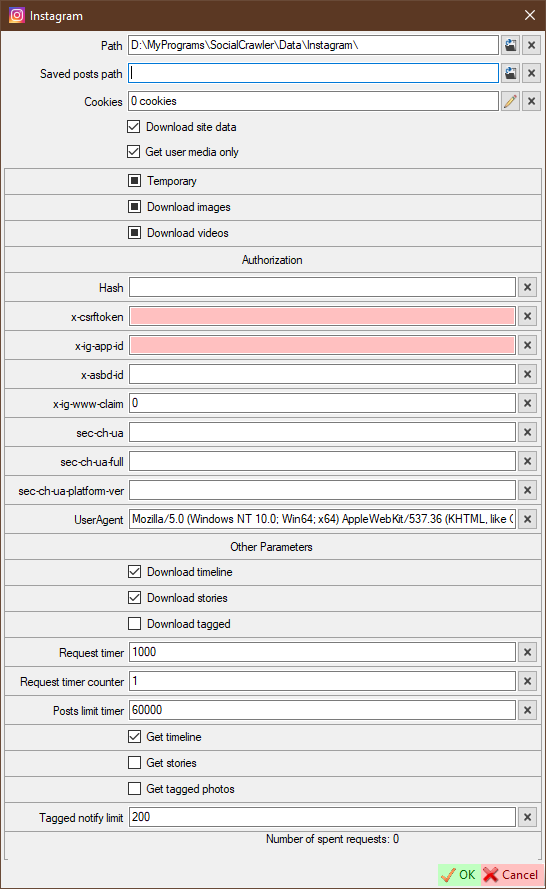
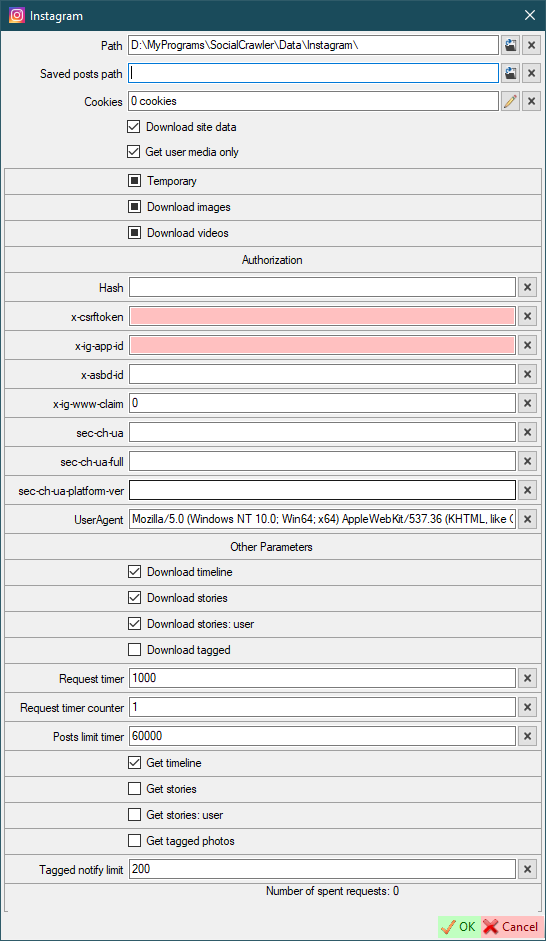
2023.9.20.0

Changed region(s): [[0.0, 0.0, 1.0, 1.0]]

diff --git a/Changelog.md b/Changelog.md
@@ -1,3 +1,19 @@
+# 2023.9.20.0
+
+*2023-09-20*
+
+- Added
+  - **Instagram: user active (non-pinned) stories (Issue #17)**
+  - Reddit: reduce the number of token updates (refresh the token if there are Reddit users in the download queue)
+  - YouTube (standalone app): priority download protocol *(`Settings` - `Defaults` - `Protocol`)* (you can now select the default protocol you want to download media on: `Any`, `https`, `m3u8`))
+  - Automation: ability to change schedulers (`Download` - `Automation` - `Script icon`)
+  - Collections: update colors for the added user
+- Fixed
+  - YouTube: can't detect `shorts` links
+  - Incorrect MD5 validation initial value
+  - Instagram: handle error 500
+  - Collections: update labels only for the added user
+
 # 2023.8.27.0
 
 *2023-08-27*

diff --git a/README.md b/README.md
@@ -189,6 +189,10 @@ F5-->[*]
 
 # Contact me
 
+Discord server: https://discord.gg/uFNUXvFFmg
+
+[e-mail](mailto:andyprogram@proton.me): andyprogram@proton.me
+<!--
 [e-mail](mailto:andyprogram@proton.me): andyprogram@proton.me
 
 Matrix (Element): https://matrix.to/#/@andyprogram:matrix.org
@@ -198,3 +202,4 @@ Discord (contact the developer): andyprogram
 Discord server: https://discord.gg/uFNUXvFFmg
 
 [Wire](https://account.wire.com/user-profile/?id=93985052-cf2c-4b72-ac75-bbe3231cf544): @andyprogram
+-->
